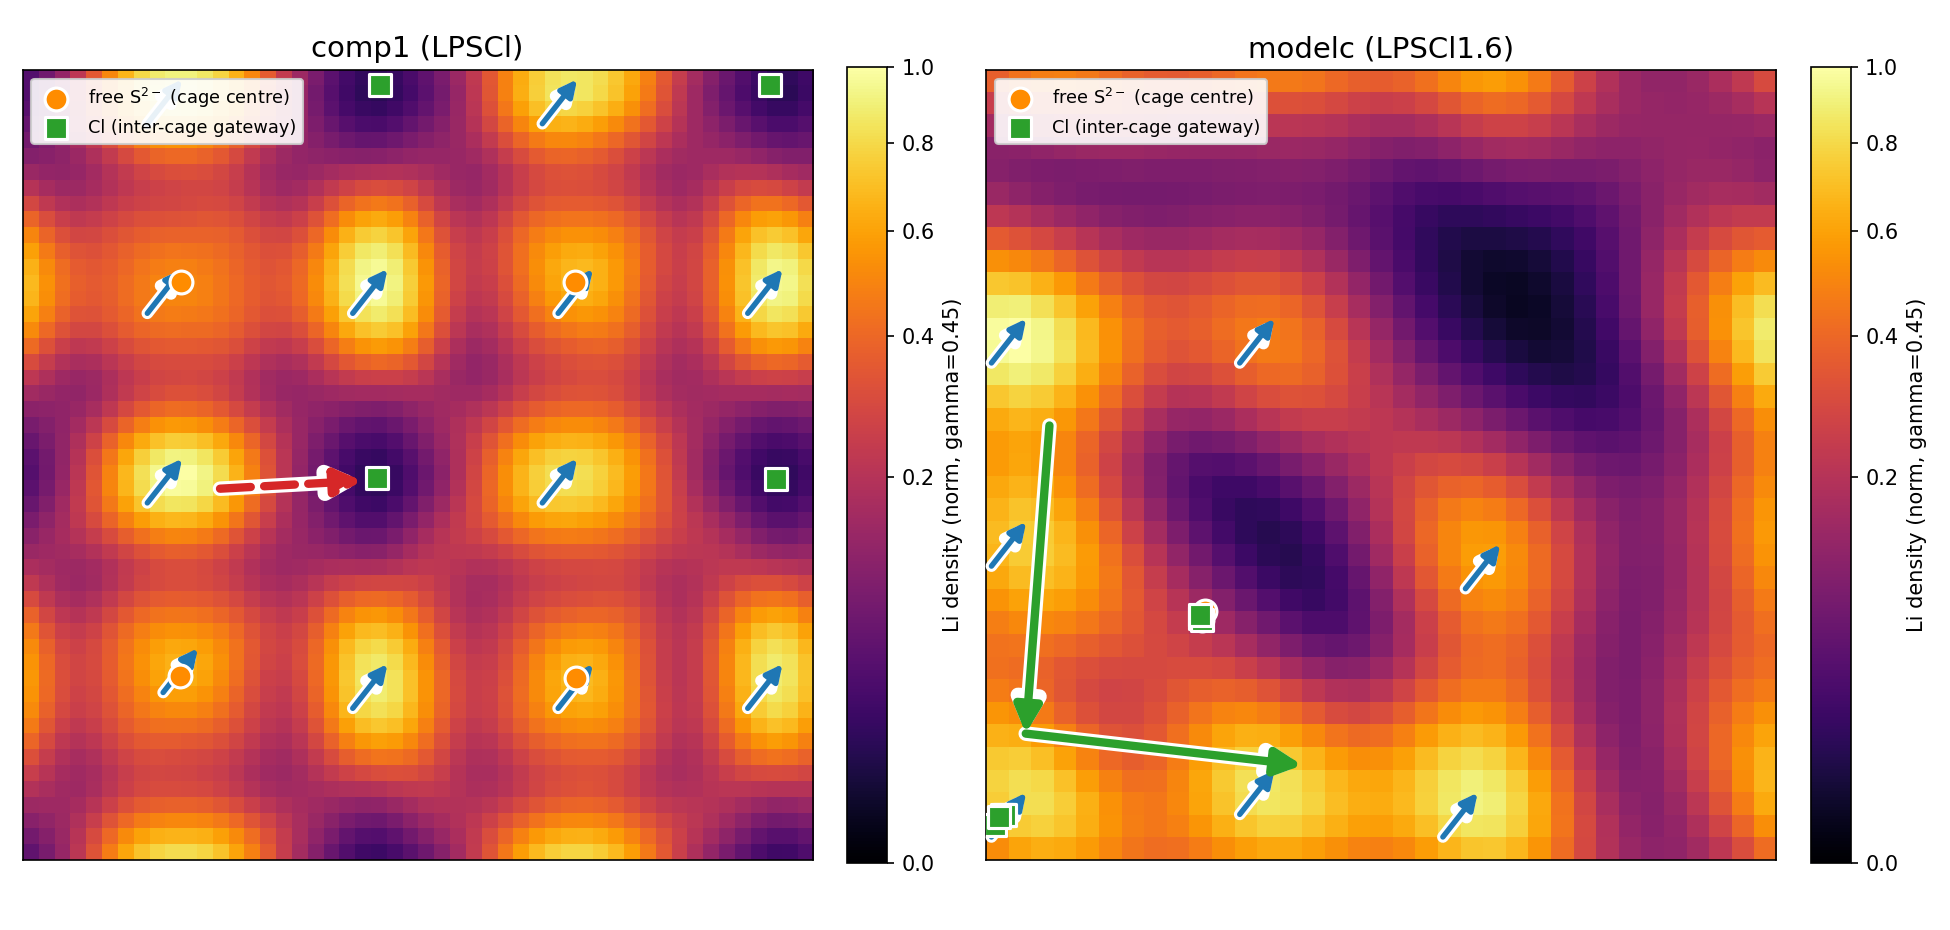
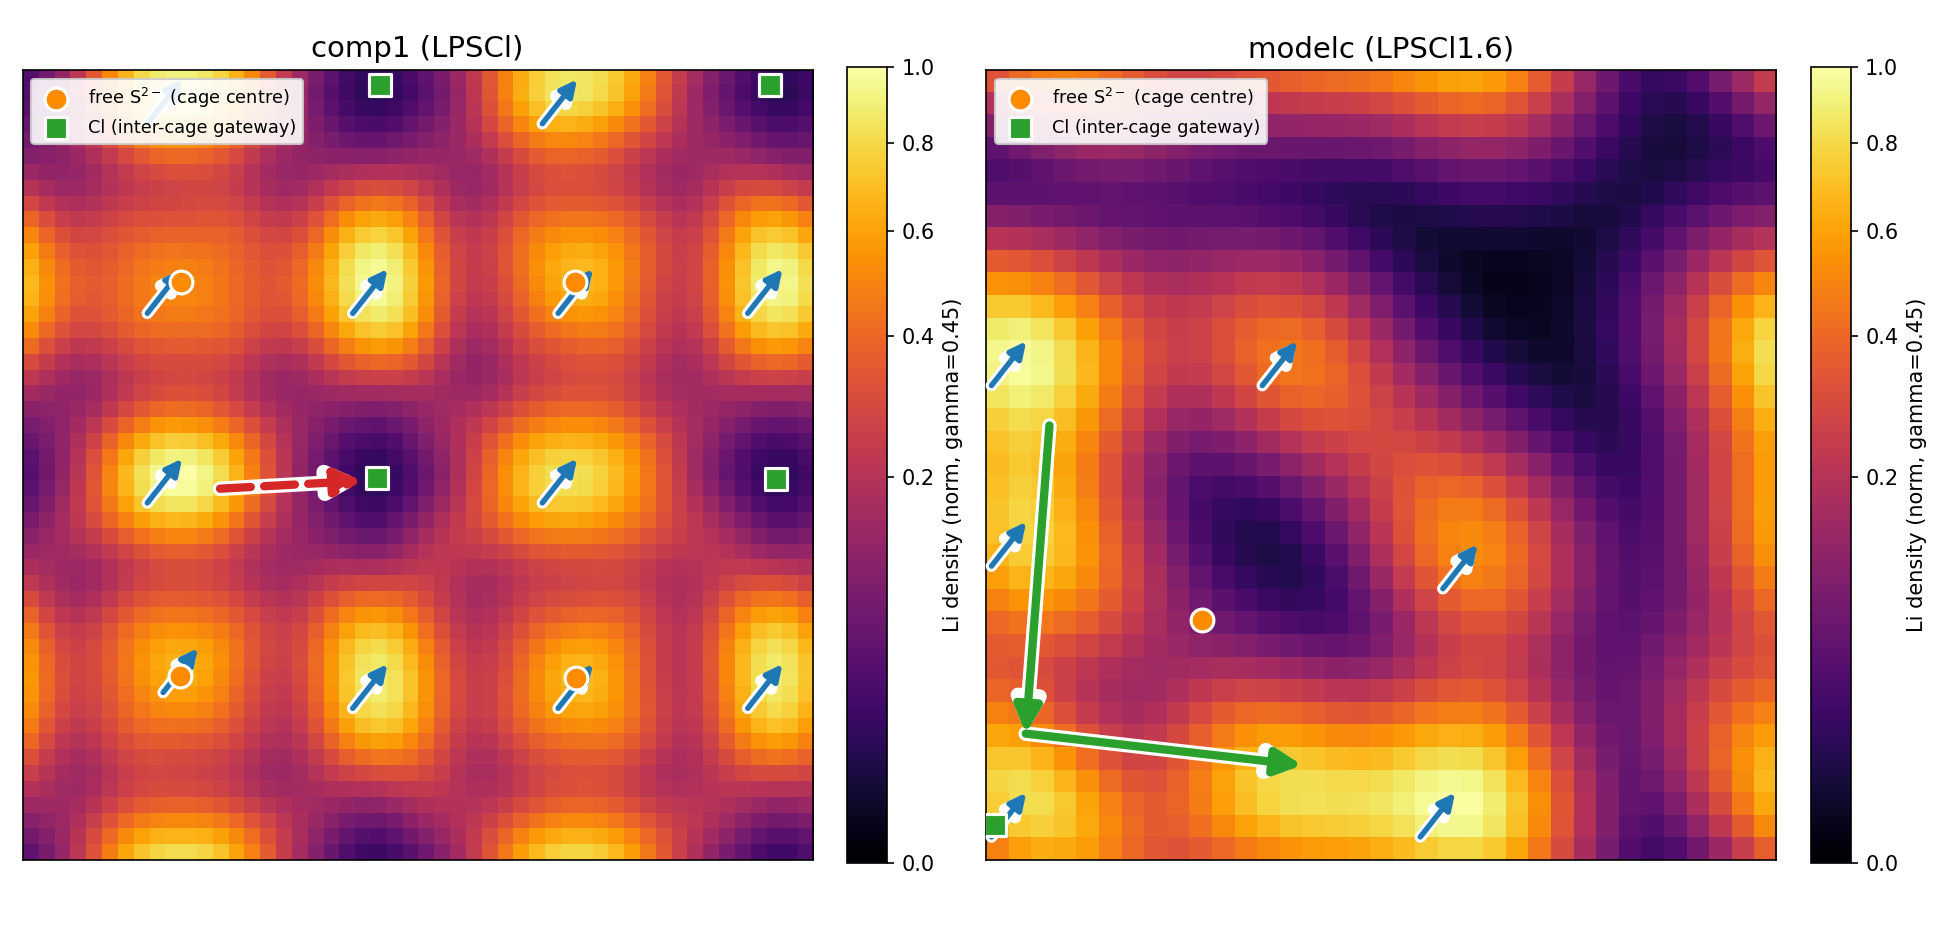
Fix modelc S/Cl marker overlap via c-slab projection (--crange)
modelc's cube is a tall hexagonal-setting cell (7x7x35 A, 5 f.u. stacked
along c); full c-projection collapsed 5 anion layers, making free-S and Cl
appear overlapped (they are 4.25 A apart in 3D - real anti-site Cl/S sharing
of the anion column + projection collapse). --crange-right "0.12,0.33"
projects a single ~7 A c-slab: density (uniform along c) is preserved, and
markers separate cleanly (free-S centre, Cl bottom-left). comp1 unchanged.

Claude-Session: https://claude.ai/code/session_01L44TWYrHkcm4PH5ihWSSCw

diff --git a/tools/figures/plot_intercage_from_cube.py b/tools/figures/plot_intercage_from_cube.py
@@ -46,7 +46,7 @@ def _mic(d, cell):
 
 
 def anion_sites(Z, R, cell):
-    """Fractional (a,b) of free S2- (S not bonded to any P, >2.6 A) and of Cl."""
+    """Fractional (a,b,c) of free S2- (S not bonded to any P, >2.6 A) and of Cl."""
     Ppos = R[Z == 15]
     inv = np.linalg.inv(cell)
     freeS = [i for i in np.where(Z == 16)[0]
@@ -95,10 +95,14 @@ def find_cores(P, thr, min_dist):
     return [(c[0] / na, c[1] / nb) for c in center_of_mass(P, lab, range(1, n + 1))]
 
 
-def panel(ax, spec, arrows, gamma, show_sites, all_intra, core_thr, core_dist):
+def panel(ax, spec, arrows, gamma, show_sites, all_intra, core_thr, core_dist,
+          crange=(0.0, 1.0)):
     cube, _, title = spec.partition(":"); title = title or cube
     rho, cell, Z, R = read_cube(cube)
-    P = rho.sum(axis=2)                                     # c-axis projection
+    nc = rho.shape[2]                                       # restrict c (avoid
+    c0, c1 = crange                                         # collapsing a tall
+    s0 = int(c0 * nc); s1 = nc if c1 >= 1.0 else int(c1 * nc)  # supercell)
+    P = rho[:, :, s0:s1].sum(axis=2)                        # c-axis projection
     P = P / P.max()
     im = ax.imshow(P.T, origin="lower", extent=[0, 1, 0, 1], aspect="equal",
                    cmap="inferno", norm=mcolors.PowerNorm(gamma, 0, 1))
@@ -106,6 +110,8 @@ def panel(ax, spec, arrows, gamma, show_sites, all_intra, core_thr, core_dist):
     ax.set_xticks([]); ax.set_yticks([])
     if show_sites and len(R):
         fS, cl = anion_sites(Z, R, cell)
+        fS = fS[(fS[:, 2] >= c0) & (fS[:, 2] < c1)] if len(fS) else fS
+        cl = cl[(cl[:, 2] >= c0) & (cl[:, 2] < c1)] if len(cl) else cl
         if len(fS):
             ax.scatter(fS[:, 0], fS[:, 1], s=120, c="#ff8c00",
                        edgecolors="white", linewidths=1.5, zorder=7,
@@ -139,13 +145,19 @@ def main():
                     help="core = local max above this fraction of peak")
     ap.add_argument("--core-dist", type=int, default=7,
                     help="min core separation (voxels)")
+    ap.add_argument("--crange-left", default="0,1",
+                    help='c-slab "min,max" for left panel (avoid supercell collapse)')
+    ap.add_argument("--crange-right", default="0,1",
+                    help='c-slab "min,max" for right panel')
     ap.add_argument("--out", default="intercage_clean.png")
     a = ap.parse_args()
+    crl = tuple(float(x) for x in a.crange_left.split(","))
+    crr = tuple(float(x) for x in a.crange_right.split(","))
     fig, axes = plt.subplots(1, 2, figsize=(13, 6.2))
-    for ax, spec, arrows in ((axes[0], a.left, ARROWS_L),
-                             (axes[1], a.right, ARROWS_R)):
+    for ax, spec, arrows, cr in ((axes[0], a.left, ARROWS_L, crl),
+                                 (axes[1], a.right, ARROWS_R, crr)):
         im = panel(ax, spec, [] if a.no_arrows else arrows, a.gamma, a.sites,
-                   a.all_intra, a.core_thr, a.core_dist)
+                   a.all_intra, a.core_thr, a.core_dist, cr)
         fig.colorbar(im, ax=ax, fraction=0.046, pad=0.04,
                      label=f"Li density (norm, gamma={a.gamma})")
     fig.tight_layout(); fig.savefig(a.out, dpi=150)
